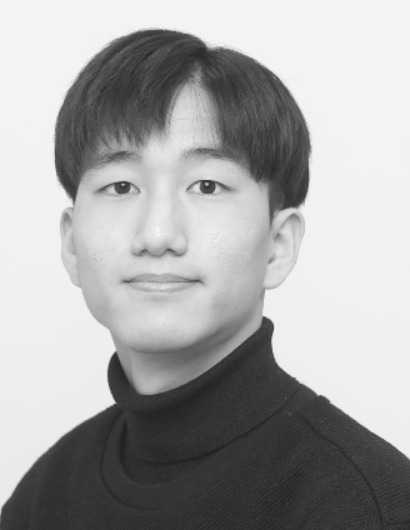
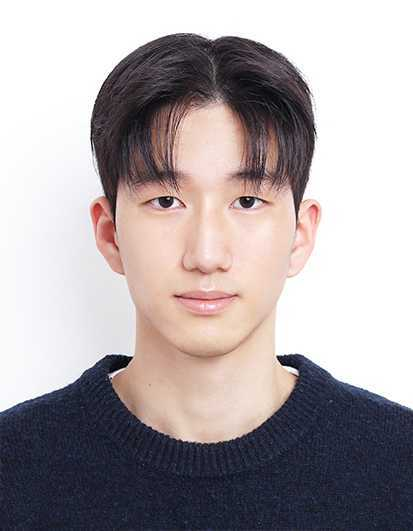
update photo

diff --git a/content/people/_index.md b/content/people/_index.md
@@ -41,7 +41,7 @@ School of Biological Sciences, Seoul National University
 Undergraduate Student • goldsun1200@naver.com \
 School of Biological Sciences, Seoul National University
 
-<img src="shj.JPG" alt="" width="200"/>
+<img src="shj.jpg" alt="" width="200"/>
 
 **Sung Hyun Jang**\
 Undergraduate Student • shbio2020@snu.ac.kr \
